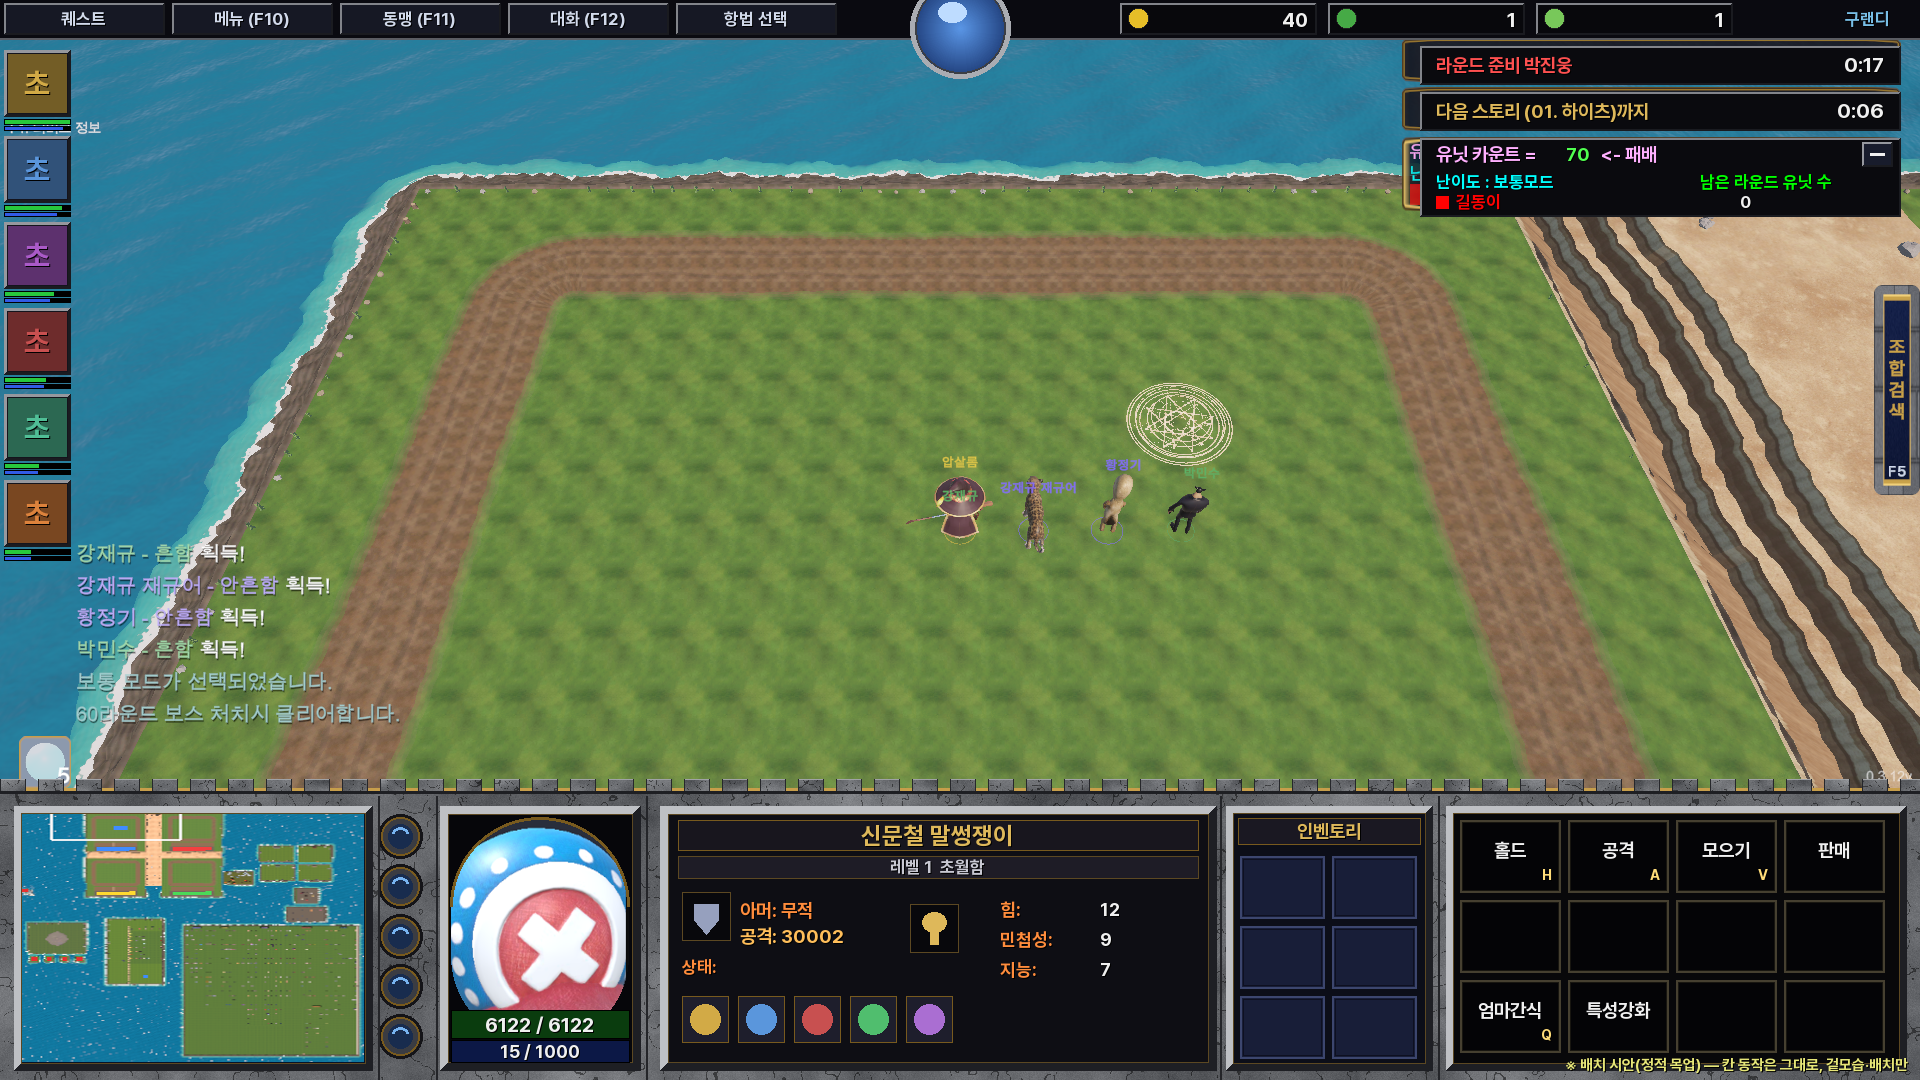
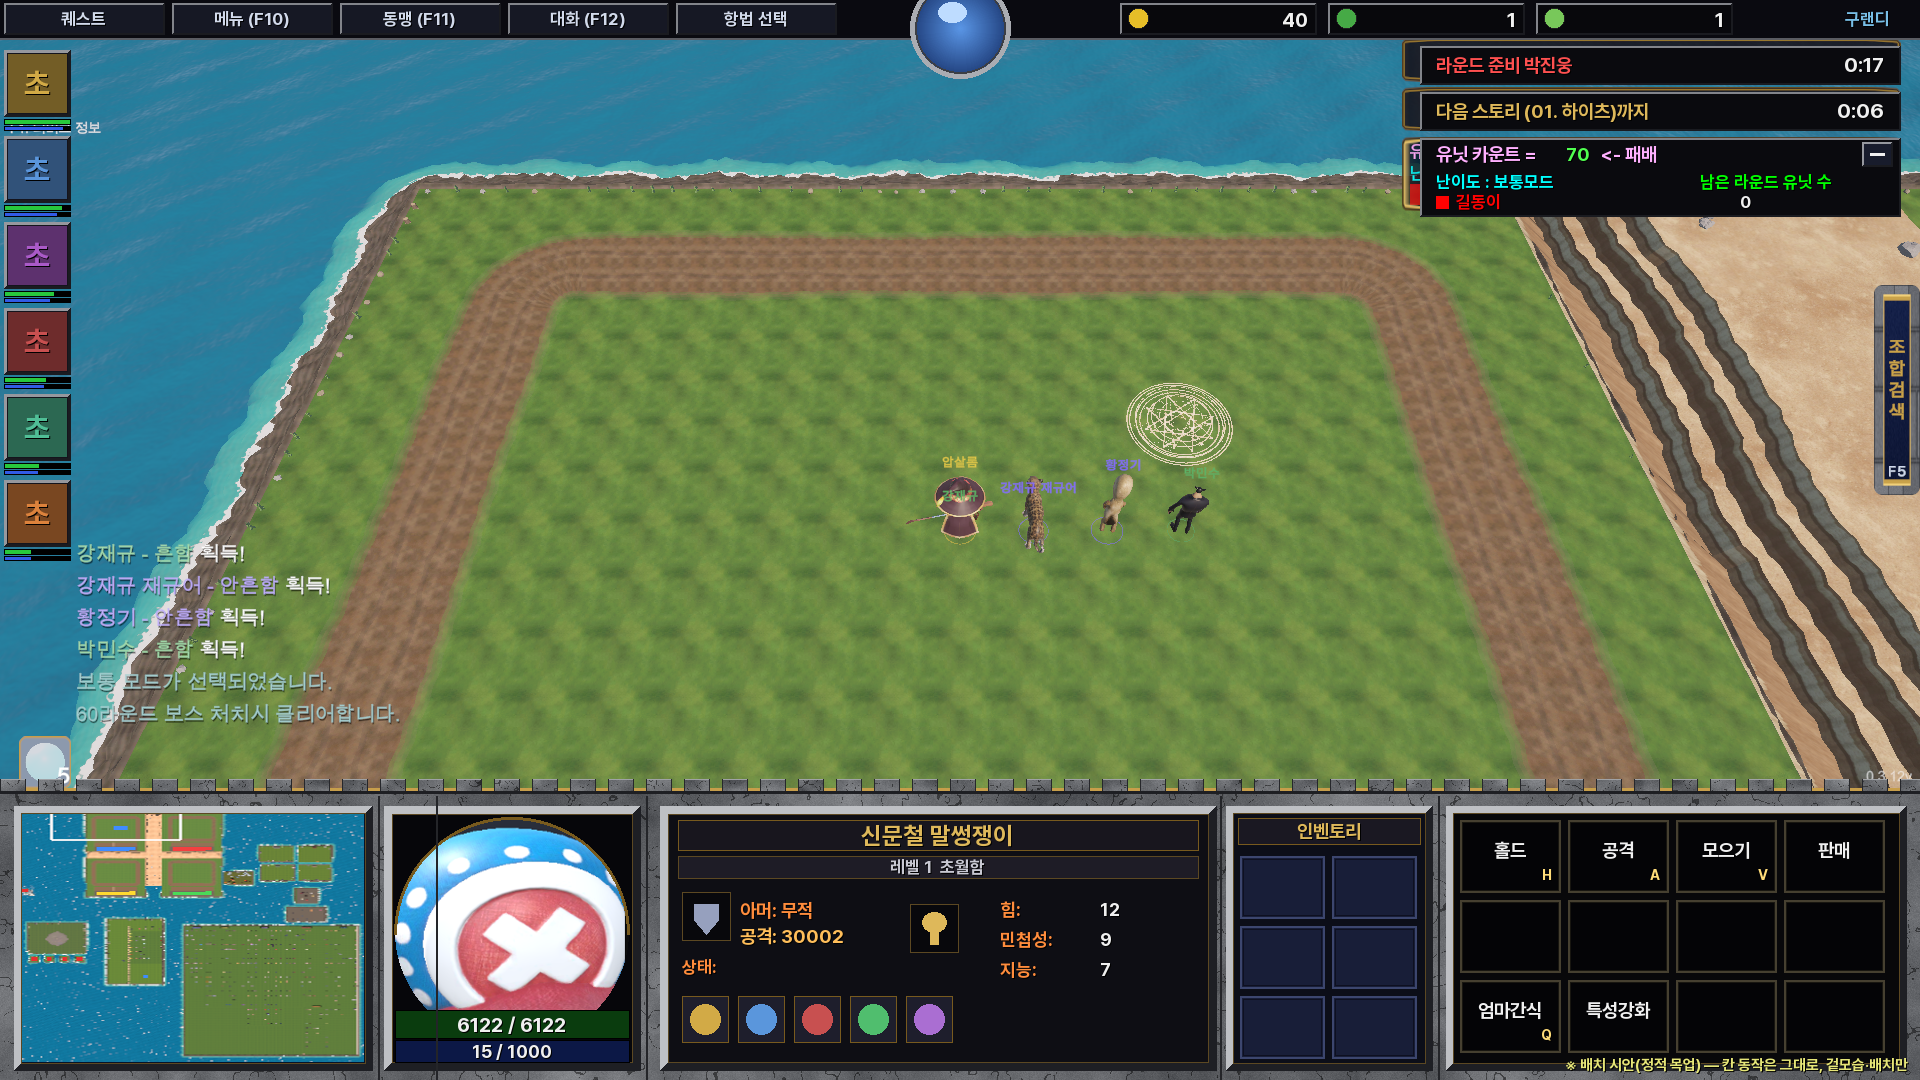
UI 시안·규격표: 미니맵 세로 단추 5개 뺌(사장님) — 초상화 아치 폭 197→265로 넓힘

Changed region(s): [[0.1875, 0.7333, 0.3438, 1.0]]

diff --git a/Tools/ui/gen_wc3_style_mock.py b/Tools/ui/gen_wc3_style_mock.py
@@ -94,15 +94,8 @@ mm = (14, 806, 372, 1070)
 panel(mm, (8, 20, 40))
 src_mm = base.crop((26, 812, 246, 1060)).resize((mm[2] - mm[0] - 16, mm[3] - mm[1] - 16))
 img.paste(src_mm, (mm[0] + 8, mm[1] + 8))
-for i in range(5):
-    cx, cy = 400, 836 + i * 50
-    d.ellipse([cx - 22, cy - 22, cx + 22, cy + 22], fill=(40, 41, 46), outline=(20, 20, 24), width=3)
-    d.ellipse([cx - 19, cy - 19, cx + 19, cy + 19], fill=(58, 60, 66), outline=GOLD_DK, width=2)
-    d.ellipse([cx - 12, cy - 12, cx + 12, cy + 12], fill=(24, 44, 78))
-    d.arc([cx - 9, cy - 9, cx + 9, cy + 9], 200, 340, fill=(120, 180, 240), width=3)
-
 # 초상화 아치
-px0, py0, px1, py1 = 440, 806, 640, 1070
+px0, py0, px1, py1 = 384, 806, 640, 1070
 panel((px0, py0, px1, py1), (6, 6, 10), 8)
 arch = Image.new('RGBA', (px1 - px0 - 22, 196), (0, 0, 0, 0))
 pw, ph = arch.size

diff --git a/Docs/design/WC3_UI_ART_SPEC_2026-10-07.md b/Docs/design/WC3_UI_ART_SPEC_2026-10-07.md
@@ -17,9 +17,9 @@
 |---|---|---|
 | 하단 콘솔 윗선(돌 캡 윗면) | y 352 (톱니 총안은 342~352로 솟음) | y 795 (총안 높이 약 23) |
 | 미니맵 틀 | x 7~163, y 358~472 | x 16~368, y 809~1066 |
-| 미니맵 세로 단추 5개 | x 165~190, y 363~463(칸 25×25) | x 373~429, y 820~1046 (56×56, 간격 0) |
-| 돌 기둥 ① | x 190~222 | x 429~501 |
-| 초상화 아치 | x 225~312, y 380~478(아래는 화면 밖) | x 508~705, y 858~1080 |
+| ~~미니맵 세로 단추 5개~~ | **뺀다**(사장님 10-07 — 원작에서도 안 쓰는 기능, 원작과 다르게 하는 유일한 곳) | — |
+| 돌 기둥 ① | (원작 x 190~222) | x 368~440 (단추 자리를 초상화에 줌) |
+| 초상화 아치(**넓힘**) | 원작 x 225~312 → 넓혀서 | x 440~705 (폭 265), y 858~1080 — 유닛 얼굴이 더 잘 보이게 |
 | 돌 기둥 ② | x 312~332 | x 705~750 |
 | 정보창 | x 332~538, y 358~478 | x 750~1215, y 809~1080 |
 | 돌 기둥 ③ | x 538~548 | x 1215~1238 |
@@ -40,11 +40,11 @@
 3. `stone_pillar.png` — 패널 사이 **돌 기둥**(세로 타일 가능, 위쪽에 총안 캡). 목표 폭 24~72 가변이므로 **가로 9-slice(좌우 8) + 높이 285 고정**, 납품 폭 160(80@1x)×570.
 4. `panel_frame_stone.png` — 미니맵·정보창·명령 카드 **바깥 돌 테두리** 9-slice, **중앙 투명**. 목표 폭 120 / 납품 240×240, 여백 좌우상하 **28**(납품 기준 56). 안쪽 모서리에 가는 어두운 홈.
 **초상화·정보창**
-5. `portrait_arch_frame.png` — 둥근 **아치 금속 틀**(금테 + 위쪽 작은 보석/리벳, 안쪽 짙은 홈), 중앙 투명(아치 모양 마스크 `portrait_arch_mask.png`도 같이: 흰=보이는 곳). 목표 197×220 / 납품 394×440.
+5. `portrait_arch_frame.png` — 둥근 **아치 금속 틀**(금테 + 위쪽 작은 보석/리벳, 안쪽 짙은 홈), 중앙 투명(아치 모양 마스크 `portrait_arch_mask.png`도 같이: 흰=보이는 곳). **넓힌 폭**: 목표 265×222 / 납품 530×444 (아치 위쪽 곡선은 폭에 맞춰 완만하게).
 6. `info_title_strip.png` — 이름 띠(검은 안쪽 + 금 이중선, 양끝 둥근) 9-slice 여백 12, 목표 440×30 / 납품 880×60. `info_level_strip.png` — 레벨 띠(더 가는 금선) 목표 440×18 / 납품 880×36, 여백 8.
 7. `icon_slot_gold.png` — 아머/트로피 아이콘 칸(금테 사각 + 어두운 안쪽) 목표 48×48 / 납품 96×96, 여백 8.
 **미니맵**
-8. `minimap_btn_1.png` ~ `_5.png` + `_pressed` — **금속 문양 단추**(금테 사각 둥근 모서리 + 안쪽 어두운 바탕에 금색 아이콘 5종: ①소용돌이 ②눈과 산 ③금 덩이 ④돋보기 ⑤점 세 개 삼각). 목표 56×56 / 납품 112×112.
+8. ~~미니맵 세로 단추~~ — **뺐다**(사장님 10-07). 미니맵 틀은 `panel_frame_stone.png`(4번)을 그대로 쓴다.
 **인벤토리·명령 카드**
 9. `inventory_title.png` — 「인벤토리」 제목 띠(금테 짙은 판) 9-slice 여백 10, 목표 180×30 / 납품 360×60.
 10. `inventory_cell.png` — 빈 칸: **청남색 판 + 배낭 실루엣 음영 + 금테**. 목표 86×86 / 납품 172×172, 여백 10. `inventory_cell_filled.png`(아이콘이 들어갈 어두운 안쪽, 금테만).
